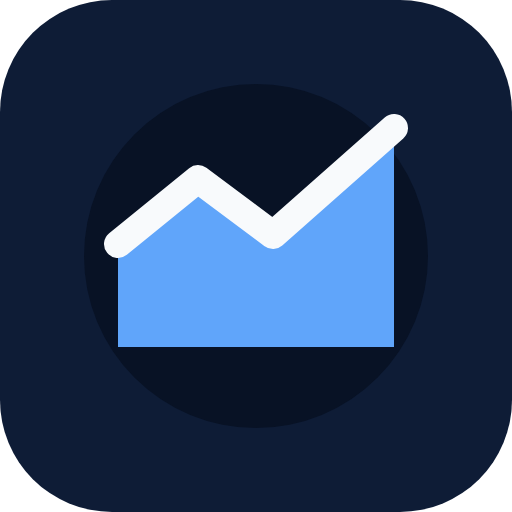
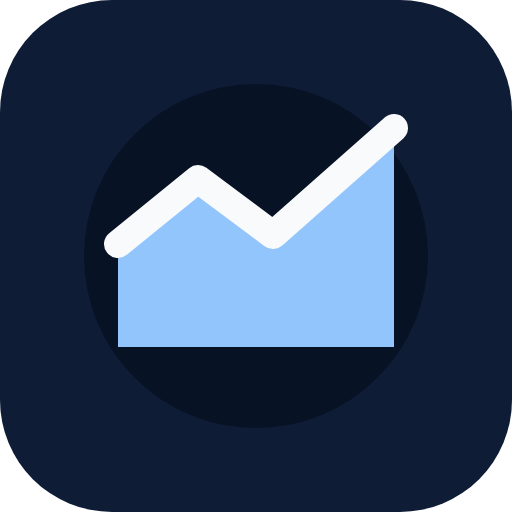
Lighten blue theme accents

Changed region(s): [[0.2188, 0.2812, 0.7812, 0.6875]]

diff --git a/src/index.css b/src/index.css
@@ -14,8 +14,8 @@
   --text: #f4f8ff;
   --text-soft: #a9bad3;
   --text-muted: #667b9e;
-  --accent: #60a5fa;
-  --accent-strong: #3b82f6;
+  --accent: #93c5fd;
+  --accent-strong: #60a5fa;
 }
 
 * {
@@ -106,7 +106,7 @@ a {
   color: #061225;
   background: var(--accent);
   border-radius: 9px;
-  box-shadow: 0 0 24px rgba(96, 165, 250, 0.24);
+  box-shadow: 0 0 24px rgba(147, 197, 253, 0.28);
 }
 
 .nav-list {
@@ -182,15 +182,15 @@ a {
   width: 34px;
   height: 34px;
   color: var(--avatar-accent, #8daee0);
-  background: color-mix(in srgb, var(--avatar-accent, #60a5fa) 13%, #132440);
-  border: 1px solid color-mix(in srgb, var(--avatar-accent, #60a5fa) 24%, #213657);
+  background: color-mix(in srgb, var(--avatar-accent, #93c5fd) 13%, #132440);
+  border: 1px solid color-mix(in srgb, var(--avatar-accent, #93c5fd) 24%, #213657);
   border-radius: 10px;
   font-size: 10px;
   font-weight: 700;
 }
 
 .avatar-owner {
-  --avatar-accent: #60a5fa;
+  --avatar-accent: #93c5fd;
 }
 
 .profile-menu,
@@ -357,9 +357,9 @@ h2 {
   align-items: center;
   gap: 7px;
   padding: 7px 10px;
-  color: #82b7f8;
+  color: #b6d8ff;
   background: rgba(59, 130, 246, 0.1);
-  border: 1px solid rgba(96, 165, 250, 0.2);
+  border: 1px solid rgba(147, 197, 253, 0.24);
   border-radius: 999px;
   font-size: 10px;
   font-weight: 600;
@@ -371,7 +371,7 @@ h2 {
   height: 6px;
   background: var(--accent);
   border-radius: 50%;
-  box-shadow: 0 0 0 4px rgba(96, 165, 250, 0.1);
+  box-shadow: 0 0 0 4px rgba(147, 197, 253, 0.12);
 }
 
 .metric-grid {

diff --git a/src/components/RevenueChart.tsx b/src/components/RevenueChart.tsx
@@ -32,8 +32,8 @@ export function RevenueChart() {
           <AreaChart data={revenueSeries} margin={{ top: 12, right: 6, left: -16, bottom: 0 }}>
             <defs>
               <linearGradient id="revenueFill" x1="0" y1="0" x2="0" y2="1">
-                <stop offset="0%" stopColor="#60a5fa" stopOpacity={0.32} />
-                <stop offset="100%" stopColor="#60a5fa" stopOpacity={0} />
+                <stop offset="0%" stopColor="#93c5fd" stopOpacity={0.34} />
+                <stop offset="100%" stopColor="#93c5fd" stopOpacity={0} />
               </linearGradient>
             </defs>
             <CartesianGrid stroke="#213657" vertical={false} strokeDasharray="3 3" />
@@ -65,7 +65,7 @@ export function RevenueChart() {
             <Area
               type="monotone"
               dataKey="revenue"
-              stroke="#60a5fa"
+              stroke="#93c5fd"
               strokeWidth={2.5}
               fill="url(#revenueFill)"
             />

diff --git a/src/data/demoData.ts b/src/data/demoData.ts
@@ -82,7 +82,7 @@ export const activities: Activity[] = [
     status: 'Completed',
     time: '2 min ago',
     initials: 'OM',
-    accent: '#60a5fa',
+    accent: '#93c5fd',
   },
   {
     id: 'INV-2047',
@@ -93,7 +93,7 @@ export const activities: Activity[] = [
     status: 'Completed',
     time: '18 min ago',
     initials: 'NW',
-    accent: '#60a5fa',
+    accent: '#7db5f5',
   },
   {
     id: 'INV-2046',

diff --git a/src/components/ChannelChart.tsx b/src/components/ChannelChart.tsx
@@ -10,7 +10,7 @@ import {
 } from 'recharts'
 import { channelSeries } from '../data/demoData'
 
-const colors = ['#60a5fa', '#4f8fe8', '#3f7bd3', '#3268ba', '#28569e']
+const colors = ['#93c5fd', '#7db5f5', '#67a4ed', '#5292e3', '#3d7fd5']
 
 export function ChannelChart() {
   return (
